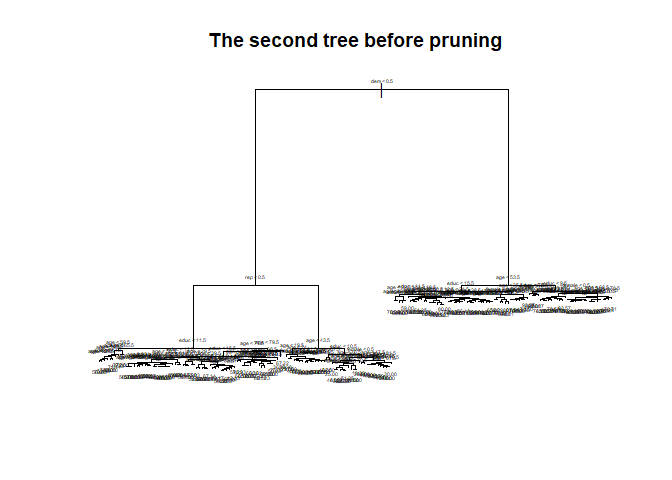
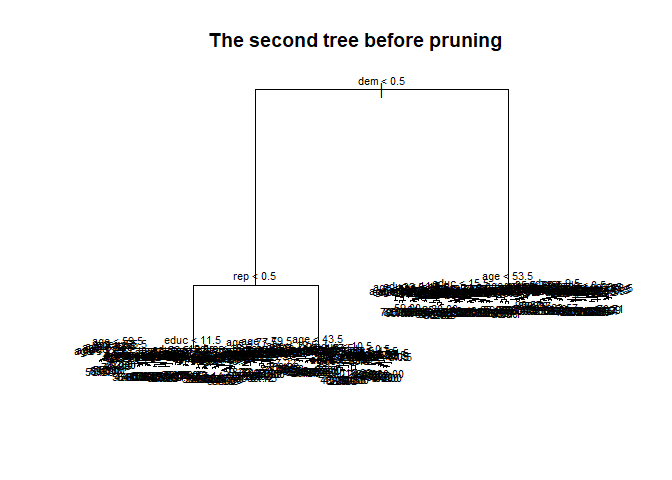
final

diff --git a/Students/HanK/PS6/PS_6.md b/Students/HanK/PS6/PS_6.md
@@ -46,7 +46,7 @@ title(main = "The first tree with default control")
 
 ![](PS_6_files/figure-markdown_github-ascii_identifiers/unnamed-chunk-4-1.png)
 
-In the default setting in R, only the features "dem" and "rep" have effects in the model. The predicted democrats' feeling thermometer is 74.31, republicans' are 41.35 and those who are neither dem nor rep have the feeling thermometer of 58.5.
+In the default setting in R, only the features "dem" and "rep" (party affiliation) have effects in the model. The predicted democrats' feeling thermometer is 74.31, republicans' are 41.35 and those who are neither dem nor rep have the feeling thermometer of 58.5.
 
 ``` r
 # Calculate the MSE
@@ -60,7 +60,7 @@ cat("The test mse of the first tree is ", mse1)
 Part b). The second tree and pruning
 ------------------------------------
 
-**In this part, I first fit a tree with out pruning and plot it. And then I choose an optimal pruned tree and plot it.**
+**In this part, I first fit a tree without pruning and plot it. And then I choose an optimal pruned tree and plot it.**
 
 ``` r
 # tree with control
@@ -72,7 +72,7 @@ mse2 <- mse(biden_result2, biden_split$test)
 
 
 plot(biden_result2)
-text(biden_result2, cex = 0.3) 
+text(biden_result2, cex = 0.7) 
 title(main = "The second tree before pruning")
 ```
 
@@ -107,7 +107,7 @@ title(main = "The optimal pruned tree")
 
 ![](PS_6_files/figure-markdown_github-ascii_identifiers/unnamed-chunk-8-1.png)
 
-The optimal pruning method produces a medium tree, all features (dem, rep, age, educ and female) make effects in the model. Dem, rep and age have the highest importance. Besides, those who are neither rep nor dem would not heavily influenced by their demographic features, but both dem and rep would be influenced by some or all demographic features. The largest predicted feeling thermometer is 77.88 from democrats older than 53.5 and the smallest feeling thermometer is 33.18 from poor-educated female republicans older than 43.5.
+The optimal pruning method produces a medium tree, all features (dem, rep, age, educ and female) make effects in the model. Dem, rep (party affiliation) and age have the highest importance. Besides, those who are neither rep nor dem would not heavily influenced by their demographic features, but both dem and rep would be influenced by some or all demographic features. The largest predicted feeling thermometer is 77.88 from democrats older than 53.5 and the smallest feeling thermometer is 33.18 from poor-educated female republicans older than 43.5.
 
 ``` r
 kable(cbind(mse2, opt_mse),
@@ -144,7 +144,7 @@ ggplot(bag_importance, aes(features, IncNodePurity)) +
   geom_text(aes(label = IncNodePurity, y = (IncNodePurity / 2))) +
   labs(title = "Feature importance",
        x = "Features",
-       y = "Node Purity")
+       y = "Mean Increased Node Purity")
 ```
 
 ![](PS_6_files/figure-markdown_github-ascii_identifiers/unnamed-chunk-11-1.png)
@@ -206,7 +206,7 @@ ggplot(importances, aes(features, IncNodePurity)) +
   facet_wrap(~ m) +
   labs(title = "Feature importance",
        x = "Features",
-       y = "Node Purity")
+       y = "Mean Increased Node Purity")
 ```
 
 ![](PS_6_files/figure-markdown_github-ascii_identifiers/unnamed-chunk-15-1.png)
